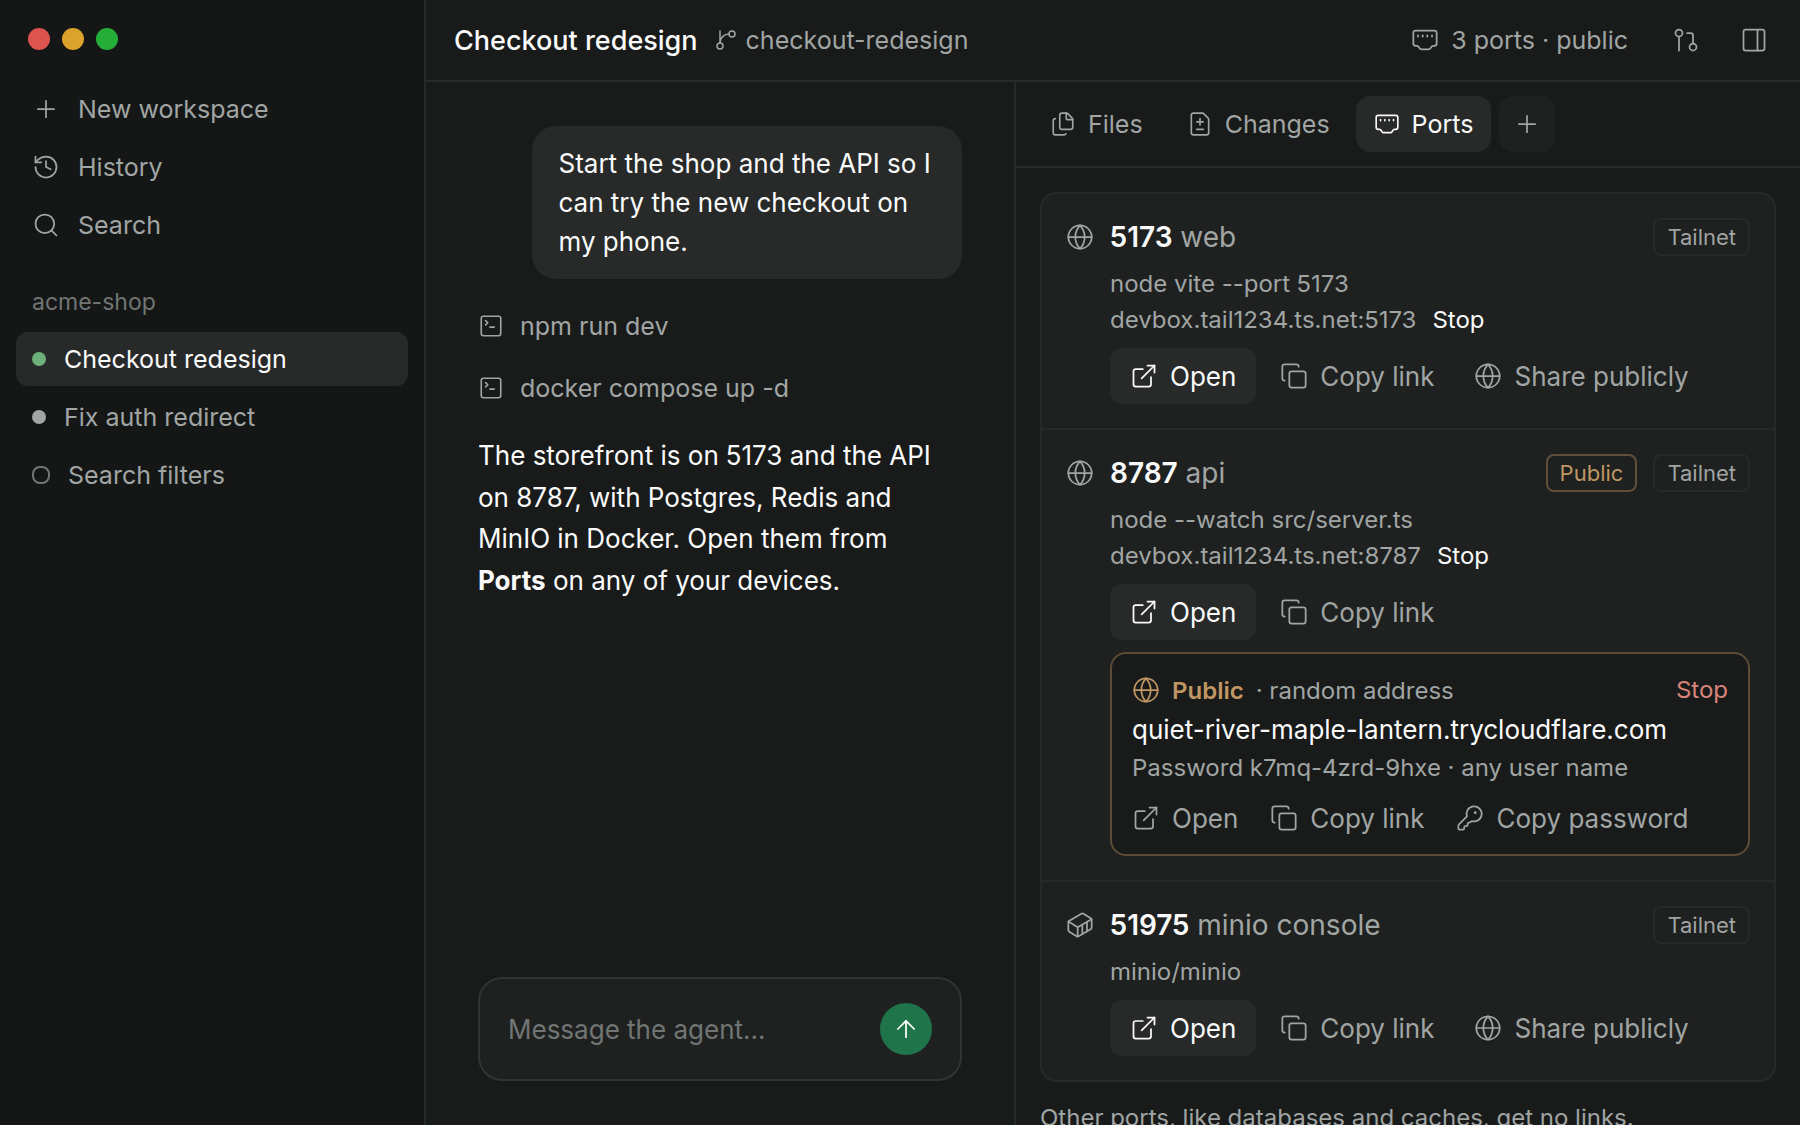
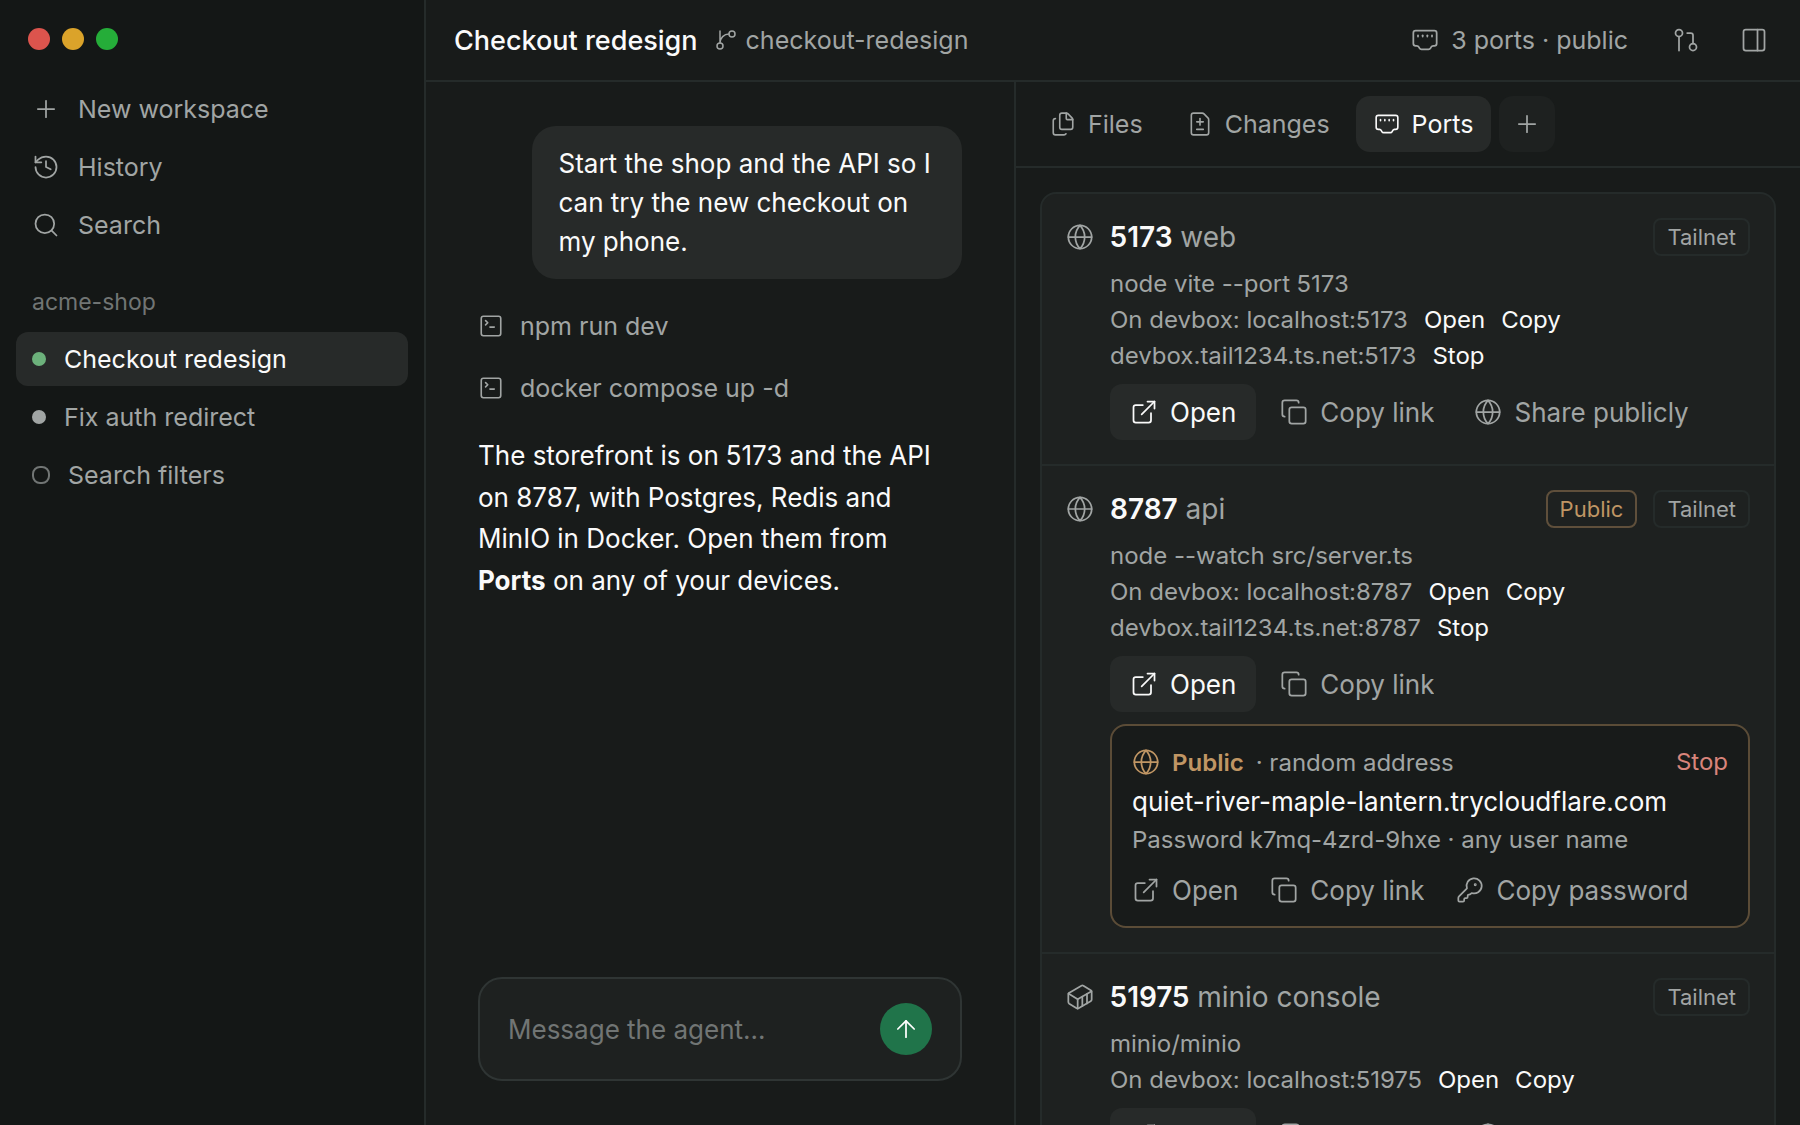
ports: each web server's localhost address beside its link
Beside Open and Copy link, which use the link your devices reach, each
web server shows its address on the host itself, "On devbox:
localhost:5173", with its own Open and Copy. That's the link for a
browser on the host: dev servers expect localhost (a secure page, OAuth
callbacks, cookies), and it needs no tailnet route or forward. Phones
leave it out, as does a port whose link is localhost already. A port
reachable only on the host, like a database bound to loopback, shows the
same address to copy instead of "This machine only".

diff --git a/plugins/ports/client/ports.tsx b/plugins/ports/client/ports.tsx
@@ -3,7 +3,7 @@ import { openExternalUrl, useSettings } from "@getpaseo/plugin/client";
 import { copyText, Icon, useToast } from "@getpaseo/plugin/client/react-native";
 import { useQueryClient } from "@tanstack/react-query";
 import { useRef, useState } from "react";
-import { ActivityIndicator, Text, View } from "react-native";
+import { ActivityIndicator, Platform, Text, View } from "react-native";
 import {
   linkSettings,
   type Access,
@@ -12,6 +12,7 @@ import {
   type Sharing,
   type SharingOption,
 } from "../shared/contracts";
+import { localAddress, localUrl } from "../shared/local";
 import { errorMessage, hostOf, portName, portUrl, queryKey, usePortRpcs, useScan } from "./data";
 import { Button, Checkbox, faint, IconButton, Options, Pill, sizes, TextAction } from "./ui";
 
@@ -262,6 +263,7 @@ function PortItem({
   setPublishing,
   progress,
   actions,
+  hostLabel,
 }: {
   theme: PluginTheme;
   compact: boolean;
@@ -271,6 +273,8 @@ function PortItem({
   busy: boolean;
   /** Open uses Paseo's browser, with a button beside it for the system's. */
   inApp: boolean;
+  /** The host's name, for its localhost address. */
+  hostLabel: string;
   publishing: boolean;
   setPublishing(publishing: boolean): void;
   progress: string | null;
@@ -281,6 +285,8 @@ function PortItem({
   const scope = scopeOf(port, sharing);
   const forwards = port.private && !port.private.https;
   const willForward = port.needsLink && !sharing.https.available;
+  // for a browser on the host itself; a phone's localhost is the phone, and a localhost link needs no second one
+  const local = Platform.OS === "web" && scope !== "Local" ? localUrl(port) : null;
   // the lines under the first one line up with its text, after the icon
   const indent = s.icon + 8;
   const small = { color: c.foregroundMuted, fontSize: 12, lineHeight: 16 };
@@ -327,6 +333,27 @@ function PortItem({
               accessibilityLabel={`Stop allowing links for port ${port.port}`}
               disabled={busy}
               onPress={() => actions.allow(port, false)}
+            />
+          </View>
+        ) : null}
+        {local ? (
+          <View style={{ flexDirection: "row", alignItems: "center", gap: 8 }}>
+            <Text style={{ ...small, flexShrink: 1 }} numberOfLines={1} selectable>
+              On {hostLabel}: {localAddress(port)}
+            </Text>
+            <TextAction
+              theme={theme}
+              label="Open"
+              accessibilityLabel={`Open port ${port.port} at localhost on ${hostLabel}`}
+              disabled={busy}
+              onPress={() => actions.open(port, inApp, local)}
+            />
+            <TextAction
+              theme={theme}
+              label="Copy"
+              accessibilityLabel={`Copy the localhost link to port ${port.port}`}
+              disabled={busy}
+              onPress={() => actions.copy(port, "Link", local)}
             />
           </View>
         ) : null}
@@ -443,6 +470,7 @@ function OtherPortRow({
   first,
   busy,
   actions,
+  hostLabel,
 }: {
   theme: PluginTheme;
   compact: boolean;
@@ -450,11 +478,15 @@ function OtherPortRow({
   first: boolean;
   busy: boolean;
   actions: Actions;
+  /** The host's name, for its localhost address. */
+  hostLabel: string;
 }) {
   const c = theme.colors;
   const s = sizes(compact);
   const indent = s.icon + 8;
   const small = { color: c.foregroundMuted, fontSize: 12, lineHeight: 16 };
+  // reachable from other devices, or else only on the host, at localhost
+  const reach = port.reach ?? localAddress(port);
   const note = port.skipped
     ? "Not checked: a database or cache port."
     : port.protocol === "unknown"
@@ -499,21 +531,15 @@ function OtherPortRow({
         <View
           style={{ flexDirection: "row", alignItems: "center", gap: 8, paddingLeft: compact ? indent : 0 }}
         >
-          {port.reach ? (
-            <>
-              <Text style={small} numberOfLines={1} selectable>
-                {port.reach}
-              </Text>
-              <TextAction
-                theme={theme}
-                label="Copy"
-                accessibilityLabel={`Copy the address of port ${port.port}`}
-                onPress={() => actions.copy(port, "Address", port.reach!)}
-              />
-            </>
-          ) : (
-            <Text style={small}>This machine only</Text>
-          )}
+          <Text style={small} numberOfLines={1} selectable>
+            {port.reach ? reach : `On ${hostLabel}: ${reach}`}
+          </Text>
+          <TextAction
+            theme={theme}
+            label="Copy"
+            accessibilityLabel={`Copy the address of port ${port.port}`}
+            onPress={() => actions.copy(port, "Address", reach)}
+          />
         </View>
       </View>
       {note ? (
@@ -593,6 +619,7 @@ export function PortList({
   theme,
   compact,
   hostId,
+  hostLabel,
   workspaceId,
   openInApp,
   webOnly,
@@ -603,6 +630,8 @@ export function PortList({
   /** Leaves out the ports that aren't web servers, as the header button's list does. */
   webOnly?: boolean;
   hostId: string;
+  /** The host's name, for the localhost addresses: they work on that machine only. */
+  hostLabel: string;
   workspaceId: string;
   /** Paseo's own browser, where the app has one. */
   openInApp?: (url: string) => void;
@@ -729,6 +758,7 @@ export function PortList({
               first={i === 0}
               busy={!!progress[port.id]}
               inApp={!!openInApp}
+              hostLabel={hostLabel}
               publishing={publishing === port.id}
               setPublishing={(on) => setPublishing(on ? port.id : null)}
               progress={progress[port.id] ?? null}
@@ -752,6 +782,7 @@ export function PortList({
                 first={i === 0}
                 busy={!!progress[port.id]}
                 actions={actions}
+                hostLabel={hostLabel}
               />
             ))}
           </View>

diff --git a/plugins/ports/server/logic.test.ts b/plugins/ports/server/logic.test.ts
@@ -8,6 +8,7 @@ import { assign } from "./match";
 import { parseProcNetTcp, parseStatPpid } from "./procfs";
 import { displayName, shortCommand, toListeners, type Listener, type ProcessInfo } from "./processes";
 import { toPort, type Shared } from "./scan";
+import { localAddress, localUrl } from "../shared/local";
 
 test("canonicalAddress spells each address one way", () => {
   assert.equal(canonicalAddress("*"), "0.0.0.0");
@@ -297,4 +298,17 @@ test("a container's instance is its ID and start time, so a restart is a new one
   const [after] = containerListeners(row, "2026-10-17T09:00:00.000000000Z");
   assert.equal(before.instance, "101e409e8482@2026-10-16T21:11:23.692619469Z");
   assert.notEqual(before.instance, after.instance);
+});
+
+test("localAddress is localhost unless the server listens on one other address only", () => {
+  const at = (address: string) => localAddress({ address, port: 5173 });
+  assert.equal(at("0.0.0.0"), "localhost:5173");
+  assert.equal(at("::"), "localhost:5173");
+  assert.equal(at("127.0.0.1"), "localhost:5173");
+  assert.equal(at("::1"), "localhost:5173");
+  assert.equal(at("127.0.0.2"), "127.0.0.2:5173");
+  assert.equal(at("100.111.26.0"), "100.111.26.0:5173");
+  assert.equal(at("fd7a:115c:a1e0::1"), "[fd7a:115c:a1e0::1]:5173");
+  assert.equal(localUrl({ address: "0.0.0.0", port: 8443, protocol: "https" }), "https://localhost:8443");
+  assert.equal(localUrl({ address: "::1", port: 5173, protocol: "http" }), "http://localhost:5173");
 });

diff --git a/plugins/ports/shared/local.ts b/plugins/ports/shared/local.ts
@@ -1,0 +1,21 @@
+import type { Port } from "./contracts";
+
+/**
+ * A port's address on its own machine: localhost, unless it listens on one other address only.
+ * Dev servers expect localhost: browsers treat it as secure, and OAuth callbacks and cookies are
+ * set up for it.
+ */
+export function localAddress(port: Pick<Port, "address" | "port">): string {
+  const a = port.address;
+  const host =
+    a === "0.0.0.0" || a === "::" || a === "::1" || a === "127.0.0.1"
+      ? "localhost"
+      : a.includes(":")
+        ? `[${a}]`
+        : a;
+  return `${host}:${port.port}`;
+}
+
+/** The URL that opens a port on its own machine. */
+export const localUrl = (port: Pick<Port, "address" | "port" | "protocol">) =>
+  `${port.protocol === "https" ? "https" : "http"}://${localAddress(port)}`;

diff --git a/plugins/ports/client/header.tsx b/plugins/ports/client/header.tsx
@@ -17,7 +17,14 @@ function dropdown(client: PluginClientContext): ComponentType<PluginButtonConten
   return function HeaderPorts({ theme, host, layout, workspaceId, close }) {
     return (
       <View style={{ gap: 12, width: layout.compact ? undefined : 400 }}>
-        <PortList theme={theme} compact={layout.compact} hostId={host.id} workspaceId={workspaceId} webOnly />
+        <PortList
+          theme={theme}
+          compact={layout.compact}
+          hostId={host.id}
+          hostLabel={host.label}
+          workspaceId={workspaceId}
+          webOnly
+        />
         <Pressable
           accessibilityRole="button"
           onPress={() => {

diff --git a/plugins/ports/client/panel.tsx b/plugins/ports/client/panel.tsx
@@ -17,6 +17,7 @@ export function PortsPanel({ theme, layout, host, workspaceId, navigation }: Plu
         theme={theme}
         compact={layout.compact}
         hostId={host.id}
+        hostLabel={host.label}
         workspaceId={workspaceId}
         openInApp={openBrowser ? (url) => openBrowser({ url, workspaceId }) : undefined}
       />

diff --git a/plugins/ports/OVERVIEW.md b/plugins/ports/OVERVIEW.md
@@ -1,8 +1,14 @@
-Ports shows what each workspace is serving and lets you share it. A workspace running a web
-server gets a button in its header that lists them; the **Ports** panel (Command Center, "Show
-open ports") lists every port, in the Explorer on desktop and as a workspace tab on phones. Each
-web server has **Open**, **Copy link** and **Share publicly**. Open uses Paseo's browser on the
-desktop app and your browser on the web and on phones.
+Ports shows what each workspace is serving and lets you share it. A workspace running a web server
+gets a button in its header that lists them; the **Ports** panel (Command Center, "Show open ports")
+lists every port, in the Explorer on desktop and as a workspace tab on phones. Each web server has
+**Open**, **Copy link** and **Share publicly**. Open uses Paseo's browser on the desktop app and
+your browser on the web and on phones.
+
+On a computer, each web server also shows its address on the host itself, such as `On devbox:
+localhost:5173`, with its own Open and Copy: that's the link for a browser on the host, since dev
+servers expect localhost (a secure page, OAuth callbacks, cookies), and it needs no tailnet route or
+forward. Phones leave it out, and so does a port whose link is localhost already. A port only
+reachable on the host, like a database bound to loopback, shows the same address to copy.
 
 Each port says who its link reaches: **Local** (this computer), **Tailnet** (your Tailscale
 devices) or **Network** (anyone who can reach the machine), and a network forward says so before
